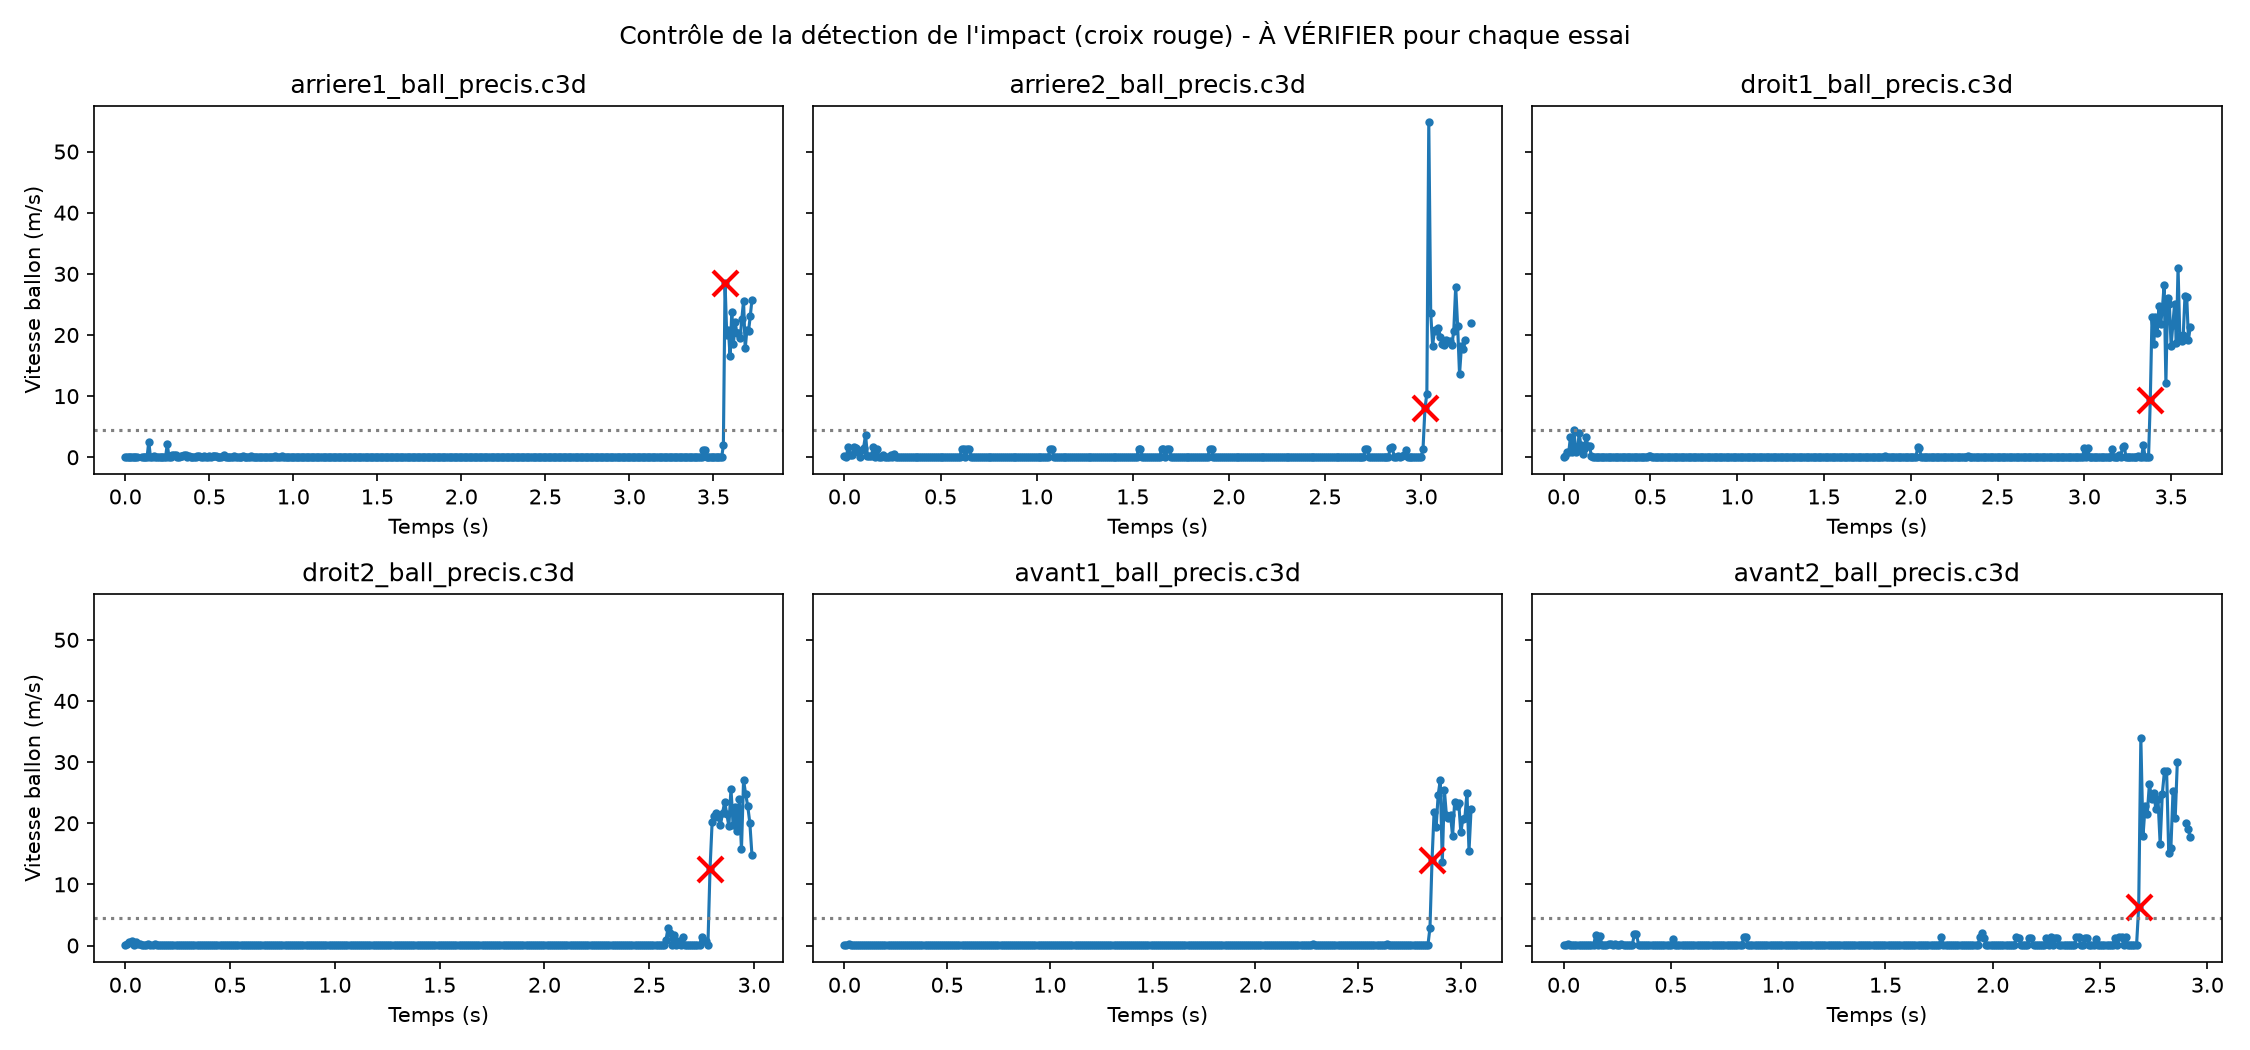
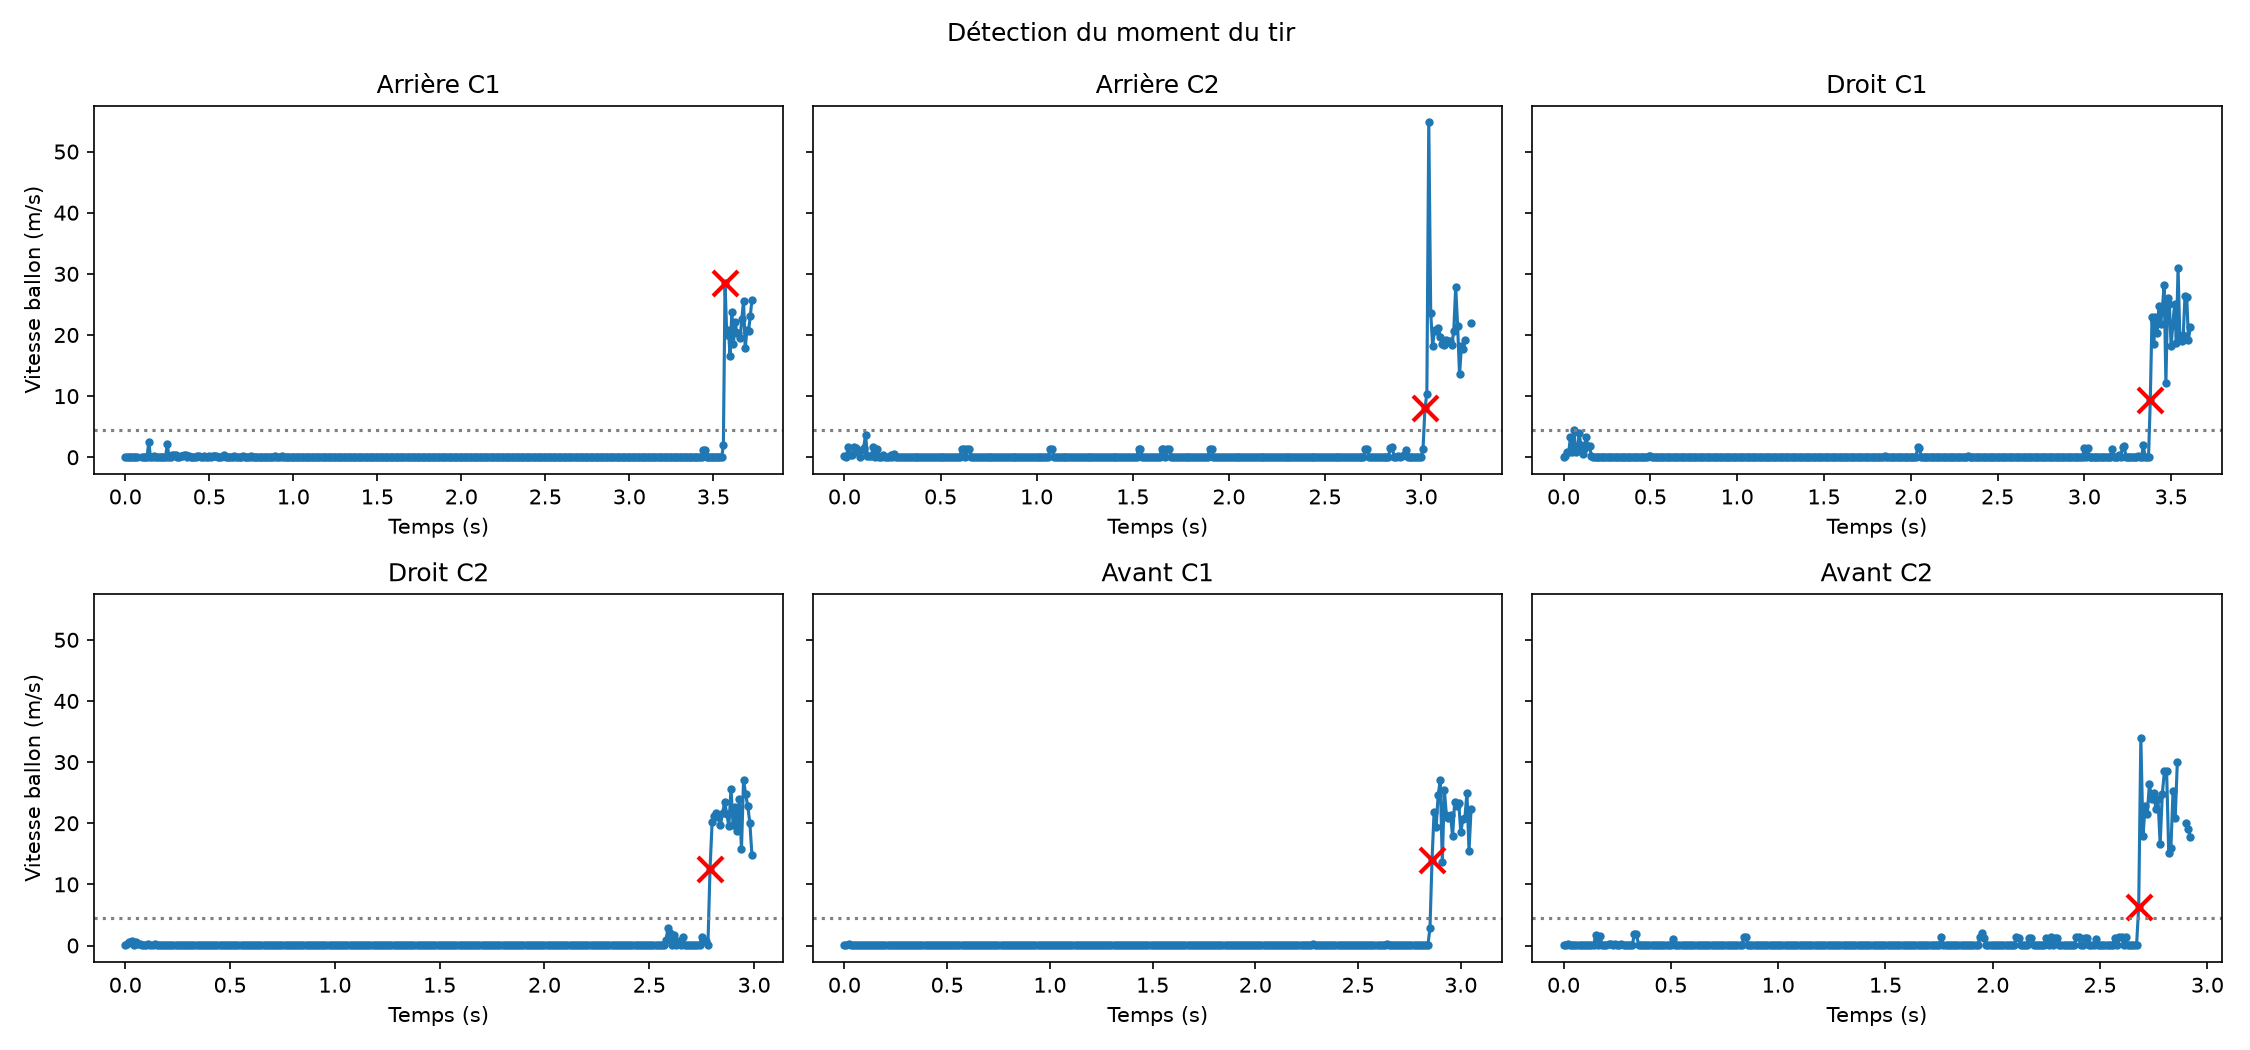
modif graph mathis

diff --git a/claude_fonctions.py b/claude_fonctions.py
@@ -221,11 +221,20 @@ for ax, (fichier, d) in zip(axes.flat, essais.items()):
     ax.plot(t, d["vit"], ".-")
     ax.plot(t[d["imp"]], d["vit"][d["imp"]], "rx", ms=12, mew=2)
     ax.axhline(SEUIL_IMPACT, color="gray", ls=":")
-    ax.set_title(fichier)
+    NOMS_ESSAIS = {
+    "droit2_ball_precis.c3d": "Droit C2",
+    "droit1_ball_precis.c3d": "Droit C1",
+    "arriere1_ball_precis.c3d": "Arrière C1",
+    "arriere2_ball_precis.c3d": "Arrière C2",
+    "avant2_ball_precis.c3d": "Avant C2",
+    "avant1_ball_precis.c3d": "Avant C1"
+    } 
+
+    ax.set_title(NOMS_ESSAIS.get(fichier, fichier)) 
     ax.set_xlabel("Temps (s)")
 axes[0, 0].set_ylabel("Vitesse ballon (m/s)")
 axes[1, 0].set_ylabel("Vitesse ballon (m/s)")
-fig.suptitle("Contrôle de la détection de l'impact (croix rouge) - À VÉRIFIER pour chaque essai")
+fig.suptitle("Détection du moment du tir ")
 plt.tight_layout()
 plt.savefig(os.path.join(DOSSIER, "fig_controle_impact.png"), dpi=150)
 plt.show()
@@ -312,30 +321,80 @@ paires = [("incl_impact", "elevation"), ("incl_impact", "v_ballon"),
           ("incl_impact", "v_pied"), ("incl_impact", "appui_AP_cm"),
           ("appui_AP_cm", "elevation"), ("v_pied", "v_ballon"),
           ("incl_impact", "rapport_v_ballon_pied")]
-print("\n--- Corrélations de Spearman (exploratoire, n =", len(df), ") ---")
-for x, y in paires:
-    s = df[[x, y]].dropna()
-    if len(s) >= 4:
-        rho, _ = spearmanr(s[x], s[y])
-        print(f"rho({x}, {y}) = {rho:.2f}  (n = {len(s)})")
-    else:
-        print(f"rho({x}, {y}) : pas assez de données")
 
 # %% Figure : variables clés par position (points individuels + moyenne)
-variables_fig = ["incl_impact", "v_ballon", "elevation", "v_pied",
-                 "appui_AP_cm", "appui_lat_cm", "angle_genou_impact", "vang_ext_genou",
-                 "rot_bassin_impact", "rapport_v_ballon_pied"]
-fig, axes = plt.subplots(3, 4, figsize=(18, 11))
+
+variables_fig = [
+        "incl_impact", "v_ballon", "elevation", "v_pied",
+        "appui_AP_cm", "appui_lat_cm", "angle_genou_impact",
+        "vang_ext_genou", "rot_bassin_impact", "rapport_v_ballon_pied"
+    ]
+
+# Correspondance entre les noms des variables et les titres des graphiques
+NOMS_VARIABLES = {
+    "incl_impact": "Inclinaison du tronc à l'impact (°)",
+    "v_ballon": "Vitesse initiale du ballon (m/s)",
+    "elevation": "Angle d'élévation du ballon (°)",
+    "v_pied": "Vitesse maximale du pied avant l'impact (m/s)",
+    "appui_AP_cm": "Position avant-arrière du pied d'appui (cm)",
+    "appui_lat_cm": "Position latérale du pied d'appui (cm)",
+    "angle_genou_impact": "Angle du genou droit à l'impact (°)",
+    "vang_ext_genou": "Vitesse angulaire d'extension du genou (°/s)",
+    "rot_bassin_impact": "Rotation du bassin à l'impact (°)",
+    "rapport_v_ballon_pied": "Rapport vitesse ballon / vitesse pied"
+    }
+
+fig, axes = plt.subplots(3, 4, figsize=(20, 12))
+
 for ax, var in zip(axes.flat, variables_fig):
-    sns.stripplot(x="position", y=var, data=df, order=ORDRE, ax=ax,
-                  color="black", size=9)
+
+        sns.stripplot(
+            x="position",
+            y=var,
+            data=df,
+            order=ORDRE,
+            ax=ax,
+            color="black",
+            size=9
+        )
+
+    # Calcul de la moyenne pour chaque position
+        m = df.groupby("position")[var].mean().reindex(ORDRE)
+
+    # Affichage de la moyenne en rouge
+        ax.scatter(
+            range(len(ORDRE)),
+            m.values,
+            marker="_",
+            s=900,
+            color="red",
+            zorder=3,
+            label="Moyenne"
+        )
+
+        ax.set_xlabel("Position du tronc")
+        ax.set_ylabel("")
+        ax.set_title(NOMS_VARIABLES[var], fontsize=10)
+
+for ax in axes.flat[len(variables_fig):]:
+    ax.axis("off")
+
+    fig.suptitle(
+        "Comparaison des paramètres biomécaniques selon la position du tronc",
+        fontsize=14
+    )
+
+    plt.tight_layout()
+    plt.savefig(os.path.join(DOSSIER, "fig_variables_par_position.png"), dpi=150)
+    plt.show()
+
     m = df.groupby("position")[var].mean().reindex(ORDRE)
     ax.scatter(range(len(ORDRE)), m.values, marker="_", s=900, color="red", zorder=3)
     ax.set_xlabel("Position du dos")
     ax.set_title(var)
 for ax in axes.flat[len(variables_fig):]:
     ax.axis("off")
-fig.suptitle("Variables par position (noir = essais, rouge = moyenne)")
+fig.suptitle("Impact de l'inclinaison sur différents paramettres")
 plt.tight_layout()
 plt.savefig(os.path.join(DOSSIER, "fig_variables_par_position.png"), dpi=150)
 plt.show()
